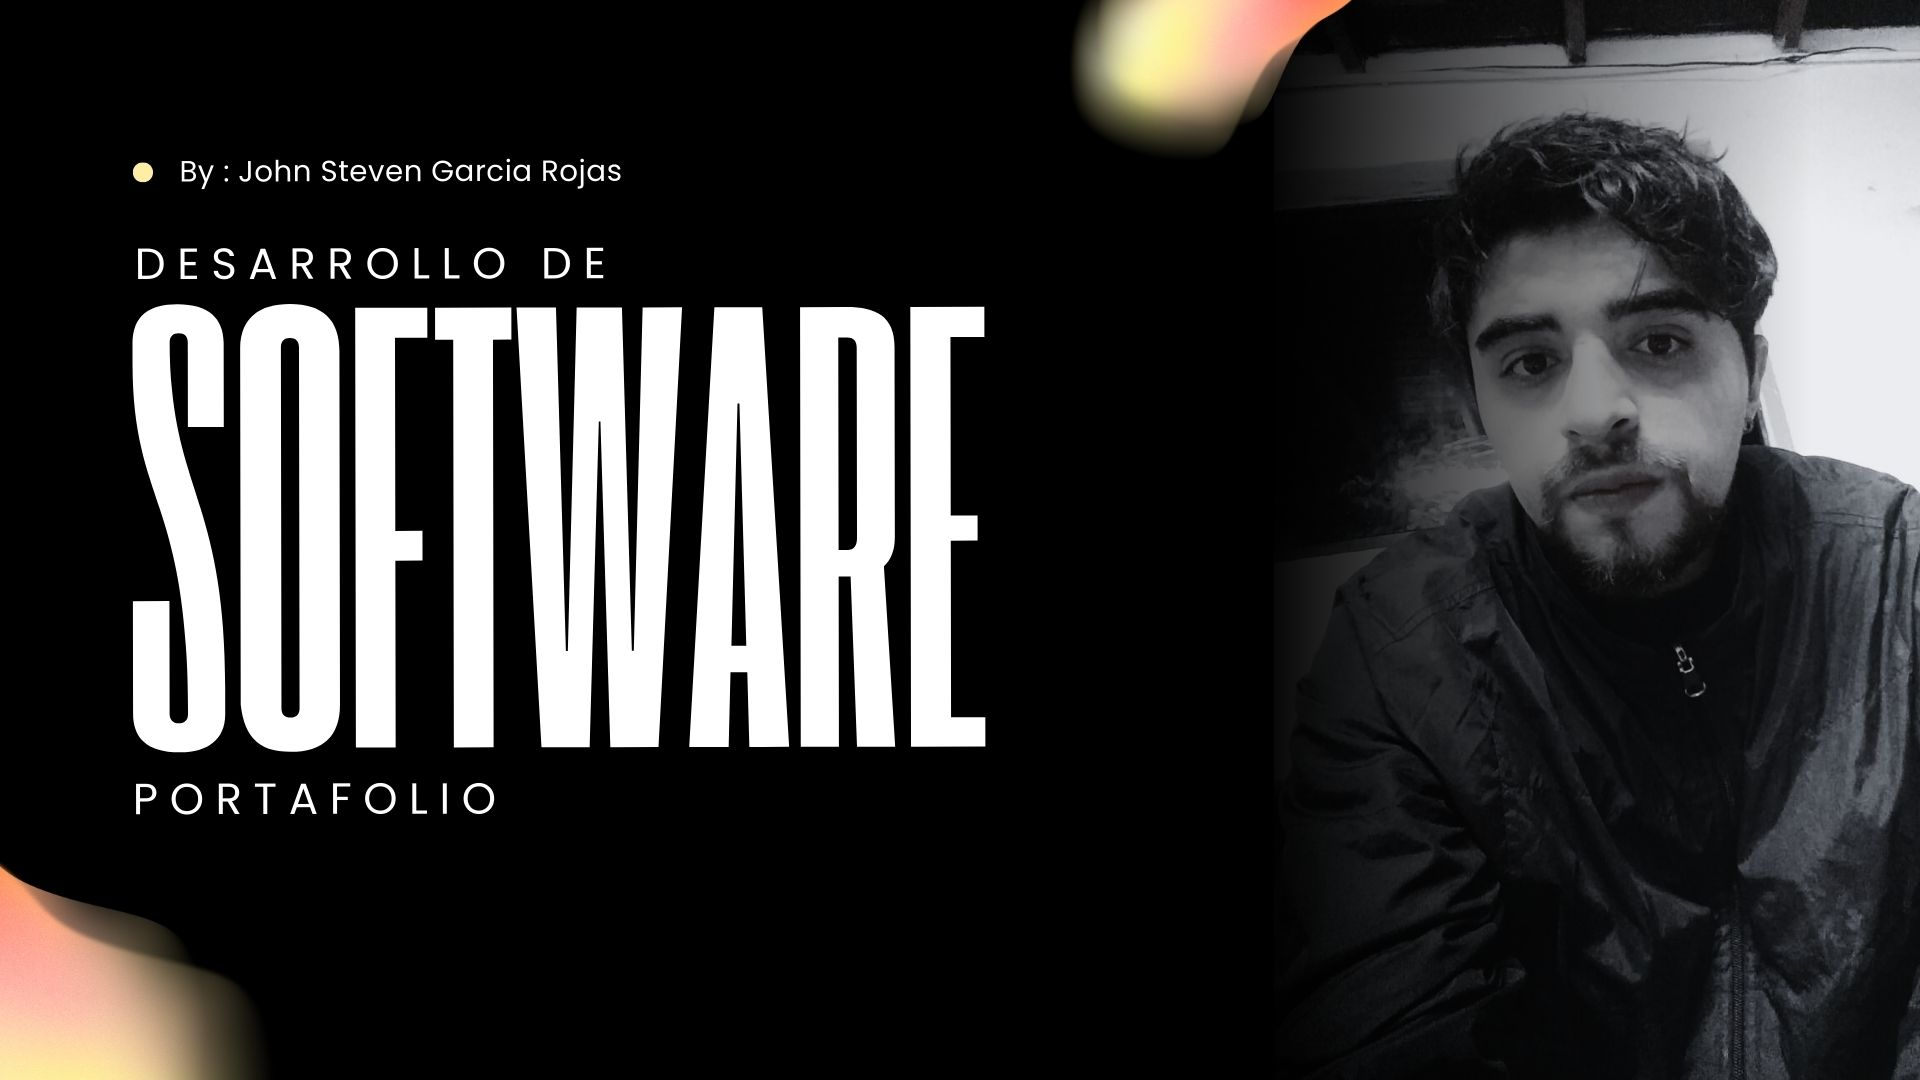
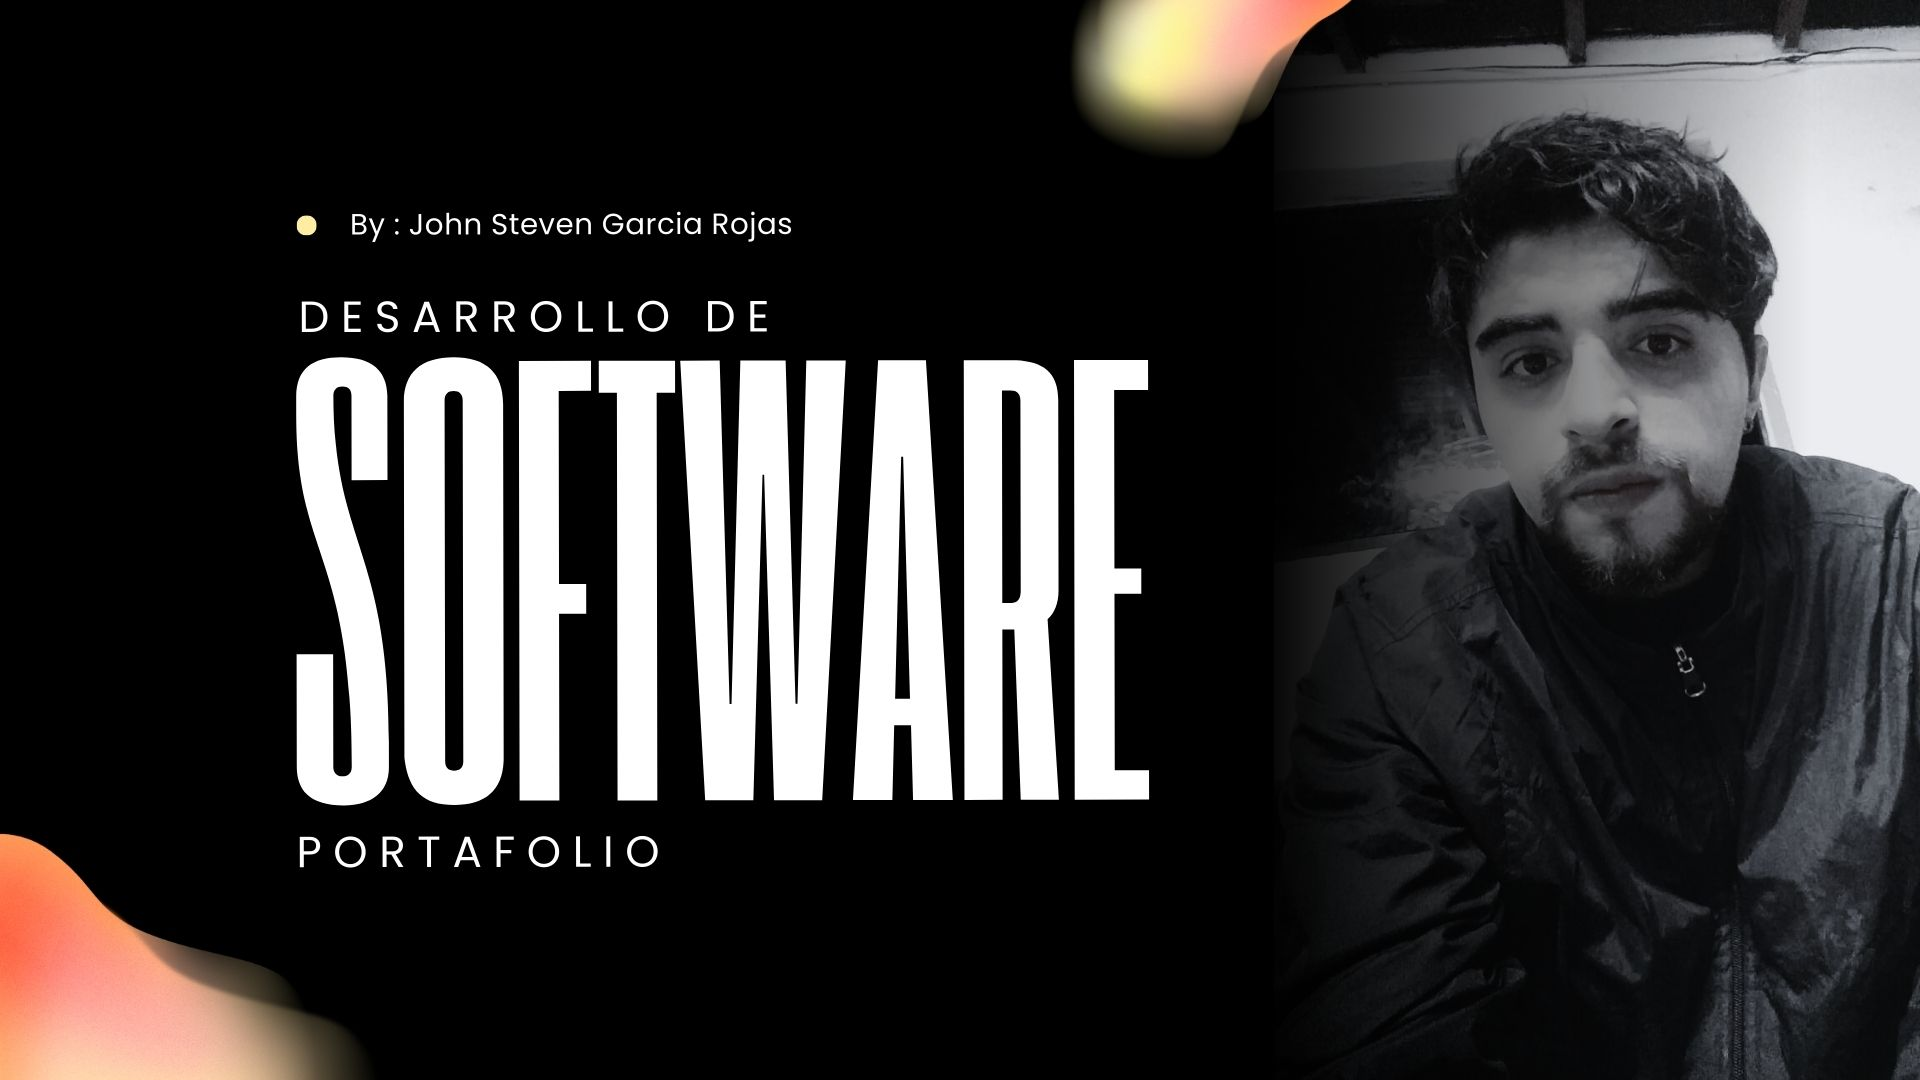
cambio fondo portada

Changed region(s): [[0.0625, 0.1528, 0.625, 0.7944], [0.0, 0.7639, 0.1875, 1.0]]

diff --git a/src/styles/portada.css b/src/styles/portada.css
@@ -103,7 +103,7 @@
     left: auto;
     display: flex;
     gap: 12px;
-    width: 23%;
+    width: 20%;
     justify-content: center;
     height: 53px;
     align-items: center;
